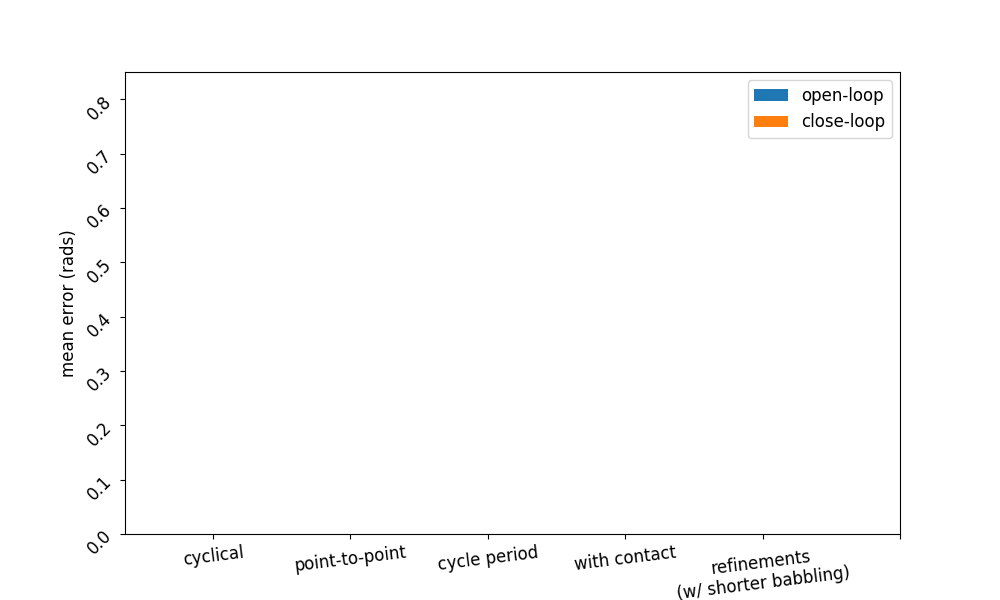
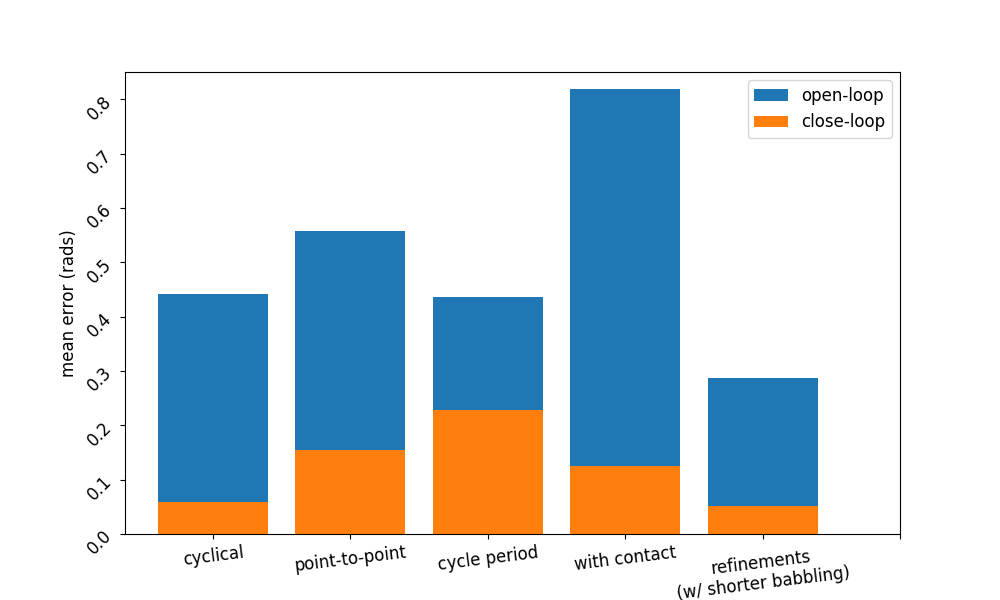
ready to run all experiments (V5)

Changed region(s): [[0.434, 0.15, 0.837, 0.9], [0.155, 0.36, 0.403, 0.9]]

diff --git a/main.py b/main.py
@@ -26,8 +26,7 @@ I = np.array([2, 6])
 
 np.random.seed(0)
 experiments_switch = np.ones(11,)#np.ones(10,)#[0, 0, 0, 1, 0, 0, 0, 0, 0, 1]
-experiments_switch[-1]=1
-trial_number = 2
+trial_number = 50
 plot_outputs = False
 for ii in range(len(experiments_switch)):
 	globals()["exp{}_average_error".format(ii+1)]=np.zeros([2,1])
@@ -39,7 +38,7 @@ for ii in range(len(experiments_switch)):
 	
 if experiments_switch[0] ==1: # as a function of cycle period
 	features=np.ones(10,)
-	cycle_durations = np.linspace(2.5,2.5,trial_number)
+	cycle_durations = np.linspace(.5,10,trial_number)
 	test1_no = cycle_durations.shape[0]
 	exp1_average_error = np.zeros([2,test1_no]) # first row open-loop and second row close-loop
 	#cycle length experiment
@@ -249,7 +248,7 @@ if experiments_switch[9] == 1: # everlearn random
 			cum_kinematics_cl, cum_activations_cl = concatinate_data_fcn( cum_kinematics_cl, cum_activations_cl, real_attempt_kinematics_cl, real_attempt_activations_cl, throw_percentage = 0.20)
 			exp10_model_cl = inverse_mapping_fcn(cum_kinematics_cl, cum_activations_cl, prior_model = exp10_model_cl)
 
-if experiments_switch[10] ==11: # cyclical on air
+if experiments_switch[10] ==1: # cyclical on air
 	rep_num = trial_number
 	powers=np.arange(-6,7,1)
 	coefficients = np.power(2.,powers)
@@ -280,7 +279,6 @@ if experiments_switch[10] ==11: # cyclical on air
 errors_all = [exp1_average_error, exp2_average_error, exp3_average_error, exp4_average_error, exp5_average_error, exp6_average_error, exp7_average_error, exp8_average_error, exp9_average_error, exp10_average_error, exp11_average_error]
 pickle.dump([errors_all, trial_number],open("results/P_I/feedback_errors_P_I_V5_50.sav", 'wb')) # saving the results with only P
 [errors_all, trial_number] = pickle.load(open("results/P_I/feedback_errors_P_I_V5_50.sav", 'rb')) # loading the results with only P
-
 plot_comparison_figures_fcn(errors_all, experiments_switch, trial_number)
 
 #import pdb; pdb.set_trace()

diff --git a/feedback_functions.py b/feedback_functions.py
@@ -140,8 +140,8 @@ def plot_comparison_figures_fcn(errors_all, experiments_switch, trial_number):
 	# plt 1: vs cycle period
 	if experiments_switch[0]:
 		plt.figure(figsize=(10, 6))
-		plt.plot(np.linspace(.1,10,trial_number), errors_all[0][0,:], np.linspace(.1,10,trial_number), errors_all[0][1,:], marker='.')
-		plt.ylim(0,.8)
+		plt.plot(np.linspace(.5,10,trial_number), errors_all[0][0,:], np.linspace(.5,10,trial_number), errors_all[0][1,:], marker='.')
+		plt.ylim(0,.6)
 		ax = plt.gca()
 		xmin, xmax = ax.get_xbound()
 		mean_error_wo = mlines.Line2D([xmin,xmax], [errors_all[0][0,:].mean(),errors_all[0][0,:].mean()],color='C0', linestyle='--', alpha=.7)

diff --git a/all_functions.py b/all_functions.py
@@ -496,8 +496,8 @@ def run_activations_fcn(est_activations, model_ver=0, timestep=0.005, Mj_render=
 	return real_attempt_kinematics, real_attempt_activations, chassis_pos
 
 def error_cal_fcn(input1, input2):
-#	error = np.mean(np.abs(input1-input2))
-	error = np.sqrt(np.power(input1-input2,2).mean())
+#	error = np.mean(np.abs(input1-input2)) # mean abs value
+	error = np.sqrt(np.power(input1-input2,2).mean()) # Root Mean Square Error (RMSE)
 	return error
 
 #import pdb; pdb.set_trace()
